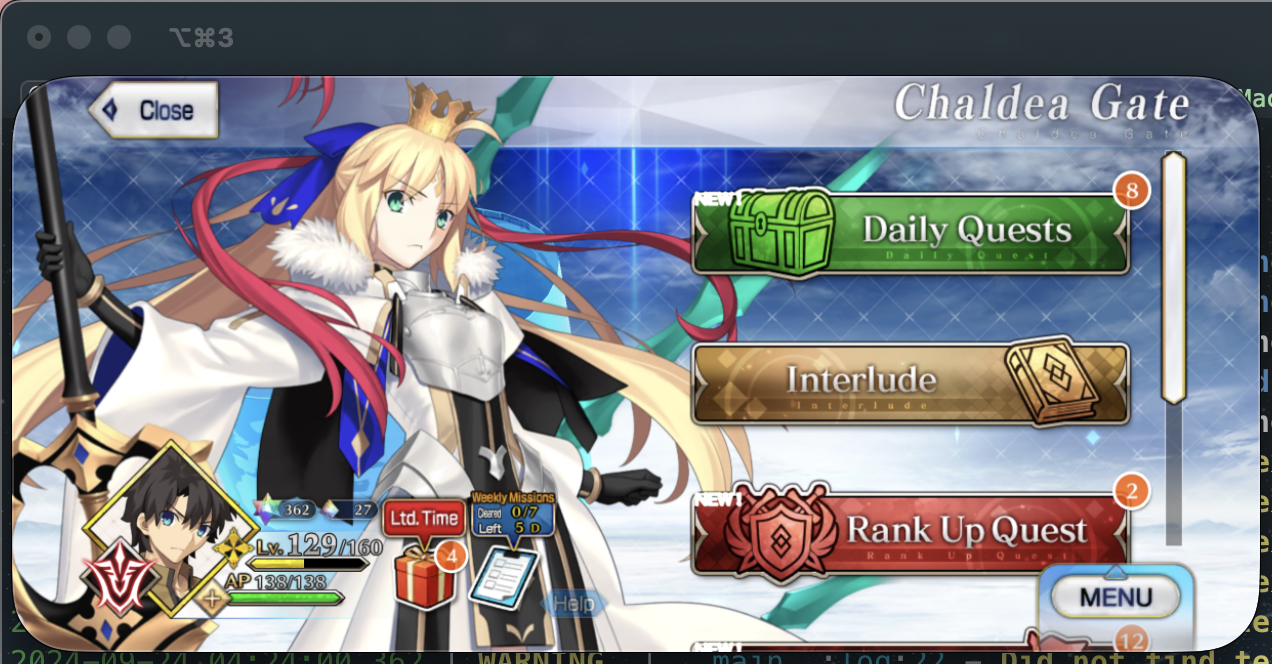
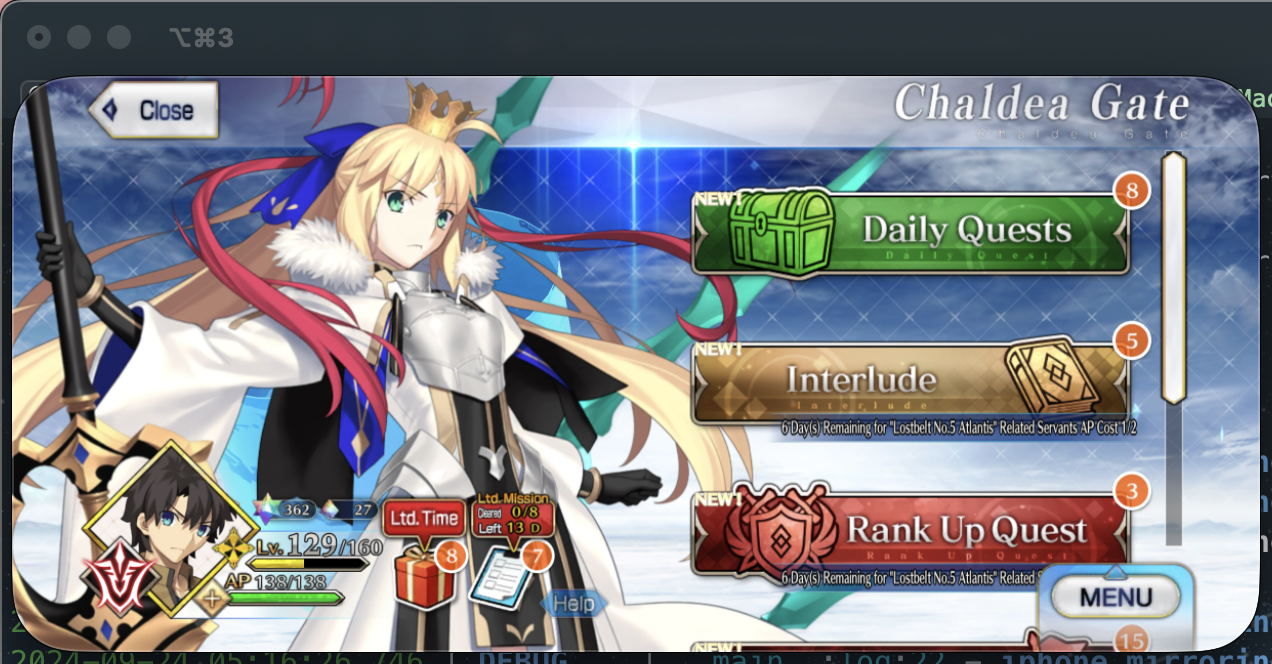
added support for when there are events - need to try to change a lot of things to go back to image recognition rather than OCR - some things can stay with OCR tho

diff --git a/app.py b/app.py
@@ -147,157 +147,13 @@ def get_iphone_mirroring_region():
         return None
 
 
-# # function to scroll (simulate 2-finger swipe up) in the center of the iphone mirroring window
-# def perform_two_finger_swipe():
-#     log("performing two-finger swipe.", "debug")
-
-#     region = get_iphone_mirroring_region()
-
-#     if region:
-#         left, top, width, height = region
-#         center_x = left + width // 2
-#         center_y = top + height // 2
-#         log(f"Scrolling at center: ({center_x}, {center_y})", "debug")
-
-#         # move to the center of the window and perform a scroll
-#         pag.moveTo(center_x, center_y, duration=0.5)
-#     #     # pag.scroll(-500)  # negative scroll value for scrolling up
-#     #     # log("scroll performed (simulated two-finger swipe up).", "info")
-#     #     time.sleep(1.5)
-#     # else:
-#     #     log("unable to get iphone Mirroring window region for scrolling.", "error")
-
-#         time.sleep(1.5)
-#         log("performing scroll using Quartz.", "debug")
-
-#         # Create a scroll event, -10 is the value to scroll up (positive scrolls down)
-#         scroll_event = CGEventCreateScrollWheelEvent(
-#             kCGEventSourceStateCombinedSessionState,  # event source
-#             kCGScrollEventUnitLine,  # scrolling in "lines" rather than "pixels"
-#             1,  # 1 represents a vertical scroll
-#             -10  # Negative scrolls up, positive scrolls down
-#         )
-
-#         # Post the event to the system
-#         CGEventPost(kCGEventScrollWheel, scroll_event)
-#         log("scroll performed using Quartz.", "info")
-#         time.sleep(1.5)
-
-# # click the search button and search for fate/go
-# def search_and_open_fate_go():
-#     log("searching for fate/go using the search function.", "debug")
-
-#     search_button_path = 'img/search_button.png'  # make sure this screenshot is provided
-#     if not os.path.exists(search_button_path):
-#         log(f"search button image '{search_button_path}' not found.", "error")
-#         return False
-
-#     try:
-#         # get the iphone mirroring window region
-#         region = get_iphone_mirroring_region()
-
-#         if region:
-
-#             pag.screenshot(region=region).save('img/ss.png')
-
-#             # locate and click the search button only within the iphone mirroring app region
-#             search_button_location = pag.locateCenterOnScreen(search_button_path, region=region, confidence=0.8)
-#             log(f"search_button_location: {search_button_location}", "debug")
-
-#             if search_button_location:
-#                 log(search_button_location, "debug")
-#                 pag.moveTo(search_button_location, duration=0.5)
-#                 pag.click(search_button_location)  # click on the search button
-#                 log("search button found and clicked.", "info")
-#                 time.sleep(1.5)  # give time for the search field to appear
-
-#                 # type "fate/go"
-#                 pag.write('fate/go', interval=0.1)
-#                 pag.press('enter')
-#                 log("fate/go entered into search bar.", "info")
-#                 time.sleep(5)  # wait for search results
-
-#                 # now locate and click on the fate/go result
-#                 game_icon_path = 'img/fgo_game_icon.png'  # reuse the fgo game icon image
-#                 icon_location = pag.locateCenterOnScreen(game_icon_path, region=region, confidence=0.7)
-#                 if icon_location:
-#                     pag.click(icon_location)  # click on the game icon in the search results
-#                     log("fate/go game icon found in search results and clicked.", "info")
-#                     time.sleep(2)  # wait for the game to launch
-#                     return True
-#                 else:
-#                     log("fate/go game icon not found in search results.", "warning")
-#                     return False
-#             else:
-#                 log("search button not found within the defined region.", "warning")
-#                 return False
-#         else:
-#             log("unable to define iphone mirroring window region.", "error")
-#             return False
-#     except Exception as e:
-#         log(f"error during search and open for fate/go: {e}", "error")
-#         return False
-
-# main function to run the automation
-# def main():
-#     # step 1: launch and focus the iphone mirroring app
-#     launch_iphone_mirroring()
-#     focus_iphone_mirroring_window()
-
-#     region = get_iphone_mirroring_region()
-#     # pag.screenshot(region=region).save('img/ss.png')
-#     # pag.screenshot(region=(20, 576, 256, 42)).save('img/search_button.png')
-#     # r = None
-#     # while r is None:
-#     #     try:
-#     #         r = pag.locateCenterOnScreen('img/search_button.png', confidence=0.7, region=region, grayscale=True)
-#     #         if r is not None:
-#     #             log(f"Image found at location: {r}", "info")
-
-#     #     except pag.ImageNotFoundException:
-#     #         log("Image not found. Retrying...", "info")
-#     #         time.sleep(1)  # Optional: Add a short delay between retries
-
-#     # log(f"final r: {r}", "info")
-#     # pag.moveTo(r.x, r.y)
-
-#     # 607-624, (312x694) - Jash
-#     # 585-608, (300x668) - Raghav
-
-#     pag.moveTo((region[0] + region[2]) // 2, (region[1] + region[3]) * 0.85)
-#     pag.click()
-#     time.sleep(1.5)
-#     pag.write('fate/go', interval=0.1)
-#     pag.press('enter')
-#     log("fate/go entered into search bar.", "info")
-#     time.sleep(5)  # wait for search results
-# pag.screenshot(region=(230, 310, 175, 37)).save('img/first_tap_on_open.png')
-# loc = None
-# x = y = None
-
-# while x is None and y is None:
-#     try:
-#         x, y = pyscreeze.locateCenterOnScreen("img/first_tap_on_open.png", confidence=0.5, region=region)
-#         # loc = pag.locateCenterOnScreen('img/first_tap_on_open_preprocessed.png', confidence=0.8, region=region, grayscale=True)
-#         if x is not None and y is not None:
-#             log(f"Image found at location: {x}, {y}", "info")
-
-#     except:
-#         log("Image not found. Retrying...", "info")
-#         time.sleep(1)
-
-# log(f"final loc: {x}, {y}", "info")
-# pag.moveTo(x, y, duration = 0.5)
-# # pyautogui.click()
-# # pag.moveTo(loc.x, loc.y)
-
-
 def main():
     # launch and focus the iphone mirroring app
     launch_iphone_mirroring()
     focus_iphone_mirroring_window()
 
     region = get_iphone_mirroring_region()
+    left, top, width, height = region
 
     # click on search button
     pag.moveTo((region[0] + region[2]) // 2, (region[1] + region[3]) * 0.85)
@@ -309,11 +165,11 @@ def main():
     log("fate/go entered into search bar.", "debug")
 
     region = get_iphone_mirroring_region()
+    left, top, width, height = region
 
     # click for first loading screen
     found = False
     while not found:
-        left, top, width, height = region
         capture_screenshot(
             region={"top": top, "left": left, "width": width, "height": height},
             output_path="img/screenshots/first_tap_on_open.png",
@@ -331,7 +187,6 @@ def main():
     time.sleep(GENERAL_LONG_SLEEP)
 
     # in case friend popup comes up
-    left, top, width, height = region
     capture_screenshot(
         region={"top": top, "left": left, "width": width, "height": height},
         output_path="img/screenshots/potential_friend_popup.png",
@@ -354,7 +209,6 @@ def main():
         time.sleep(GENERAL_LONG_SLEEP)
     
     # in case news shows up
-    left, top, width, height = region
     capture_screenshot(
         region={"top": top, "left": left, "width": width, "height": height},
         output_path="img/screenshots/potential_news.png",
@@ -374,32 +228,76 @@ def main():
         pag.click()
         time.sleep(GENERAL_LONG_SLEEP)
 
+    # in case of any close buttons
+    capture_screenshot(
+        region={"top": top, "left": left, "width": width, "height": height},
+        output_path="img/screenshots/potential_close_btns.png",
+    )
+    loc_close_happened = False
+   
+    try:
+        loc_close = pag.locateCenterOnScreen("img/screenshots/close_btn.png", confidence=0.8)
+        loc_close_exists = True
+    except pag.ImageNotFoundException:
+        loc_close_exists = False
+
+    while loc_close_exists or check_text_in_image("img/screenshots/potential_close_btns.png", "Close"):
+        loc_close_happened = True
+        if loc_close_exists:
+            pag.moveTo(loc_close.x, loc_close.y)
+            pag.click()
+        else:
+            bbox = find_text_location(
+                "img/screenshots/potential_close_btns.png", "Close"
+            )
+            if bbox:
+                x, y, width, height = bbox
+                log(
+                    f"Bounding box for 'Close': x={x}, y={y}, width={width}, height={height}"
+                )
+                pag.moveTo(region[0] + x, region[1] + y)
+            else:
+                pag.moveTo((region[0] + region[2]) * 0.5, (region[1] + region[3]) * 0.835)
+            pag.click()
+
+        try:
+            loc_close = pag.locateCenterOnScreen("img/screenshots/close_btn.png", confidence=0.8)
+            loc_close_exists = True
+        except pag.ImageNotFoundException:
+            loc_close_exists = False
+
+    if loc_close_happened:
+        time.sleep(GENERAL_LONG_SLEEP)
+
     # drag scroll bar to top of screen
     pag.moveTo((region[0] + region[2]) * 0.925, (region[1] + region[3]) * 0.35)
     pag.click()
     pag.dragTo((region[0] + region[2]) * 0.925, (region[1] + region[3]) * 0.3, button="left")
     
     # open Chaldea Gate menu
-    left, top, width, height = region
-    capture_screenshot(
-        region={"top": top, "left": left, "width": width, "height": height},
-        output_path="img/screenshots/fgo_in_game_homescreen.png",
-    )
-    bbox = find_text_location(
-        "img/screenshots/fgo_in_game_homescreen.png", "Chaldea Gate"
-    )
-    if bbox:
-        x, y, width, height = bbox
-        log(
-            f"Bounding box for 'Chaldea Gate': x={x}, y={y}, width={width}, height={height}"
+    try:
+        loc_chaldea_gate = pag.locateCenterOnScreen("img/screenshots/chaldea_gate.png", confidence=0.8)
+        pag.moveTo(loc_chaldea_gate.x // 2, loc_chaldea_gate.y // 2)
+        pag.click()
+    except pag.ImageNotFoundException:
+        capture_screenshot(
+            region={"top": top, "left": left, "width": width, "height": height},
+            output_path="img/screenshots/fgo_in_game_homescreen.png",
         )
-        pag.moveTo(region[0] + x, region[1] + y)
-    else:
-        pag.moveTo((region[0] + region[2]) * 0.7, (region[1] + region[3]) * 0.61)
-    pag.click()
+        bbox = find_text_location(
+            "img/screenshots/fgo_in_game_homescreen.png", "Chaldea Gate"
+        )
+        if bbox:
+            x, y, width, height = bbox
+            log(
+                f"Bounding box for 'Chaldea Gate': x={x}, y={y}, width={width}, height={height}"
+            )
+            pag.moveTo(region[0] + x, region[1] + y)
+        else:
+            pag.moveTo((region[0] + region[2]) * 0.7, (region[1] + region[3]) * 0.61) # NOTE: won't work if event - change 0.61 to something higher
+        pag.click()
     
     # open Daily Quests menu
-    left, top, width, height = region
     capture_screenshot(
         region={"top": top, "left": left, "width": width, "height": height},
         output_path="img/screenshots/chaldea_gate_menu.png",
@@ -421,7 +319,6 @@ def main():
     pag.dragTo((region[0] + region[2]) * 0.925, (region[1] + region[3]) * 0.3, button="left")
     
     # scroll to find Extreme QP quest
-    left, top, width, height = region
     curr_y = (region[1] + region[3]) * 0.3
     capture_screenshot(
         region={"top": top, "left": left, "width": width, "height": height},
@@ -466,6 +363,43 @@ def main():
             pag.moveTo((region[0] + region[2]) * 0.7, (region[1] + region[3]) * 0.4)
             pag.click()
 
+    time.sleep(GENERAL_LONG_SLEEP)
+
+    # switch to caster class
+    loc = pag.locateCenterOnScreen("img/screenshots/friend_support_caster_class.png", confidence=0.8)
+    pag.moveTo(loc.x // 2, loc.y // 2)
+    pag.click()
+
+    # make sure at top of list
+    pag.moveTo((region[0] + region[2]) * 0.925, (region[1] + region[3]) * 0.4)
+    pag.click()
+
+    # find end of scrollbar if need to scroll
+    loc = pag.locateOnScreen("img/screenshots/friend_support_scrollbar.png", confidence=0.8)
+    curr_y = (loc.top + loc.height) // 2
+    pag.moveTo((loc.left + (loc.width / 2)) // 2, curr_y)
+
+    found = False
+    while not found:
+        try:
+            # select castoria
+            loc_support = pag.locateCenterOnScreen("img/screenshots/friend_support_altria_caster.png", confidence=0.8)
+            pag.moveTo(loc_support.x // 2, loc_support.y // 2)
+            pag.click()
+            found = True
+        except pag.ImageNotFoundException:
+            # scroll to next supports
+            curr_y += loc.height // 4
+            pag.dragTo((region[0] + region[2]) * 0.925, curr_y, button="left", duration=0.5)
+
 
 if __name__ == "__main__":
     main()
+
+
+### GOOD CODES TO HAVE:
+
+# capture_screenshot(
+#     region={"top": top, "left": left, "width": width, "height": height},
+#     output_path="img/screenshots/ss.png",
+# )
